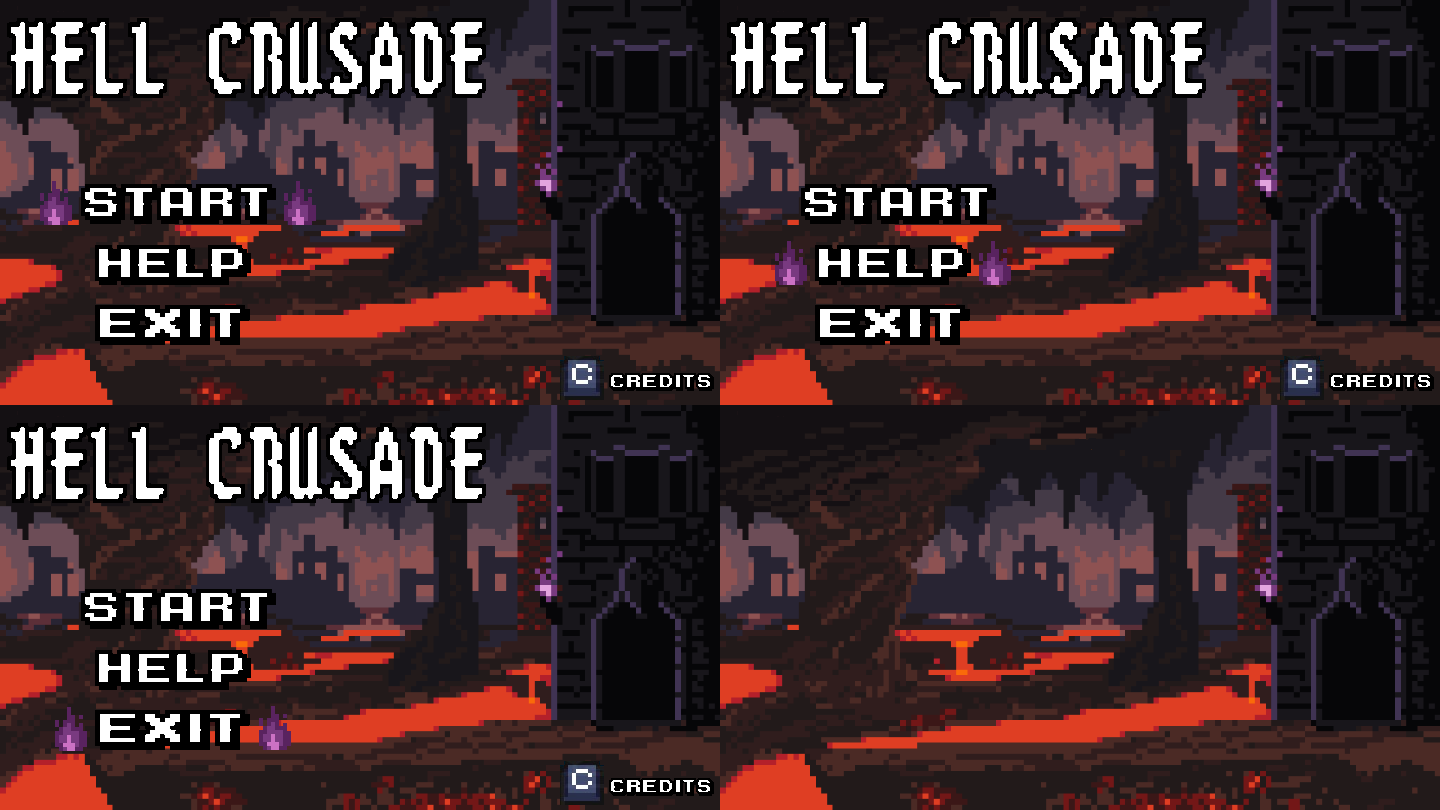
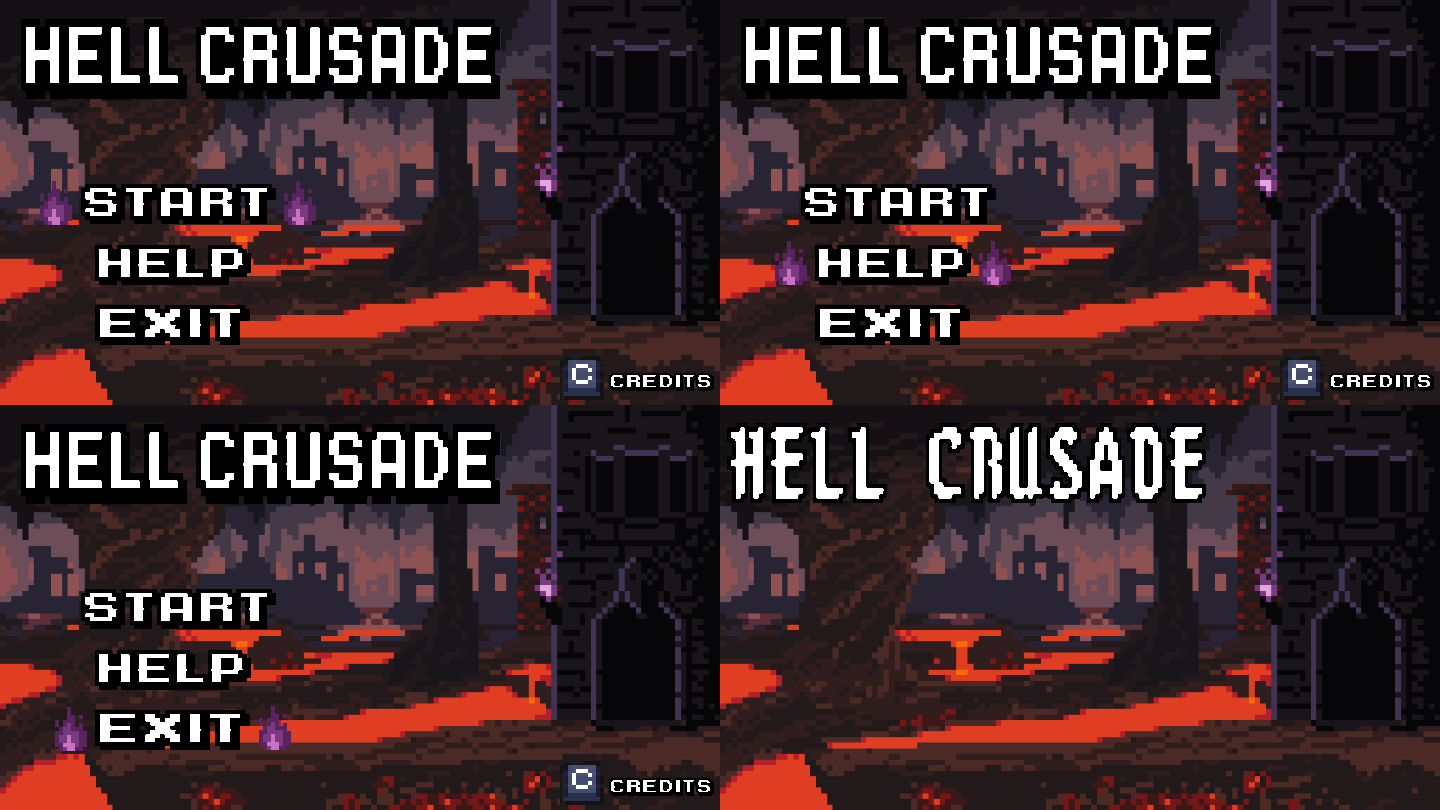
sound factory created

diff --git a/02-Bubble/02-Bubble/Key.cpp b/02-Bubble/02-Bubble/Key.cpp
@@ -4,6 +4,7 @@
 #include <GL/glut.h>
 #include "Key.h"
 #include "Game.h"
+#include "SoundFactory.h"
 
 enum KeyAnims
 {
@@ -38,7 +39,7 @@ void Key::init(const glm::ivec2& tileMapPos, ShaderProgram& shaderProgram)
 	itemSize = glm::ivec2(16, 16);
 	hitbox = glm::ivec2(8, 8);
 
-	engine = createIrrKlangDevice();
+	//engine = createIrrKlangDevice();
 }
 
 void Key::update(int deltaTime)
@@ -48,6 +49,8 @@ void Key::update(int deltaTime)
 		taken = true;
 		showing = false;
 
+		//Game::instance().init();
+		SoundFactory::instance().playKeyTaken();
 		//engine->play2D("sounds/key.wav", false);
 
 		map->setKeyTaken(true);

diff --git a/02-Bubble/02-Bubble/Menu.cpp b/02-Bubble/02-Bubble/Menu.cpp
@@ -32,7 +32,7 @@ void Menu::init(ShaderProgram& shaderProgram)
 	//spritesheet.loadFromFile("images/menu_img.png", TEXTURE_PIXEL_FORMAT_RGBA);
 	//spritesheet.setMagFilter(GL_NEAREST);
 	//sprite = Sprite::createSprite(glm::ivec2(720, 405), glm::vec2(1, 1), &spritesheet, &shaderProgram);
-	mainSpritesheet.loadFromFile("images/menu_title_new.png", TEXTURE_PIXEL_FORMAT_RGBA);
+	mainSpritesheet.loadFromFile("images/menu.png", TEXTURE_PIXEL_FORMAT_RGBA);
 	mainSpritesheet.setMagFilter(GL_NEAREST);
 	mainSprite = Sprite::createSprite(glm::ivec2(720, 405), glm::vec2(0.5f, 0.5f), &mainSpritesheet, &shaderProgram);
 	

diff --git a/02-Bubble/02-Bubble/SoundFactory.h b/02-Bubble/02-Bubble/SoundFactory.h
@@ -1,0 +1,31 @@
+#ifndef _SOUND_FACTORY_INCLUDE
+#define _SOUND_FACTORY_INCLUDE
+
+#include <irrKlang.h>
+
+using namespace irrklang;
+
+class SoundFactory
+{
+private:
+	SoundFactory() {
+		engine = createIrrKlangDevice();
+	}
+
+public:
+	static SoundFactory& instance()
+	{
+		static SoundFactory SF;
+		return SF;
+	}
+
+	void playKeyTaken();
+
+private:
+	ISoundEngine* engine;
+	//ISoundSource* sound;
+};
+
+
+#endif
+

diff --git a/02-Bubble/02-Bubble/Key.h b/02-Bubble/02-Bubble/Key.h
@@ -13,9 +13,5 @@ public:
 
 private:
 	bool bPositioned = false;
-
-	//Sound engine
-	ISoundEngine* engine;
-	ISoundSource* sound;
 };
 

diff --git a/02-Bubble/02-Bubble/SoundFactory.cpp b/02-Bubble/02-Bubble/SoundFactory.cpp
@@ -1,0 +1,6 @@
+#include "SoundFactory.h"
+
+void SoundFactory::playKeyTaken()
+{
+	engine->play2D("sounds/key.wav", false);
+}
